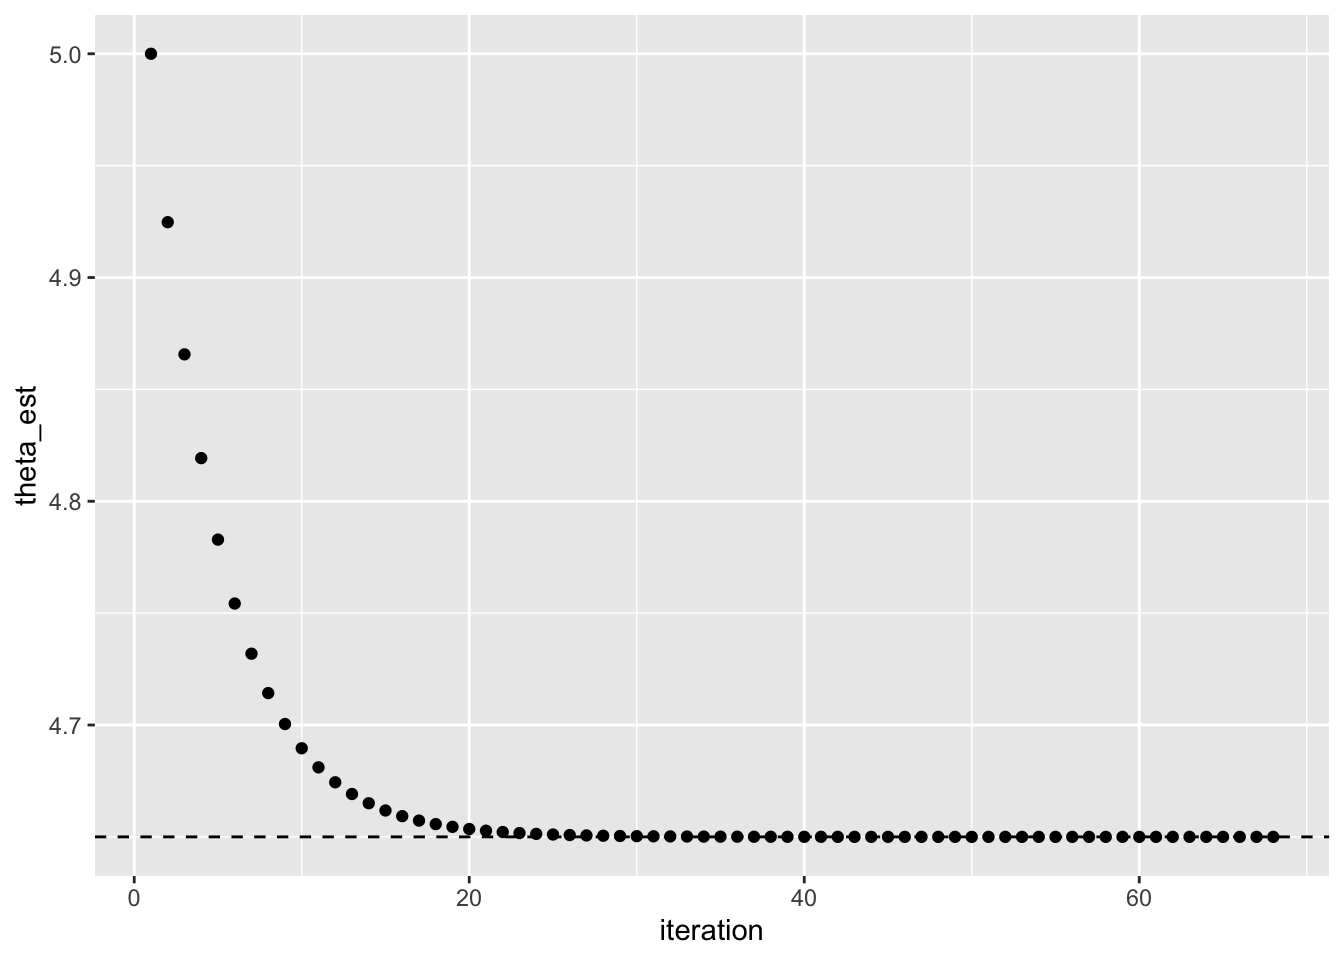
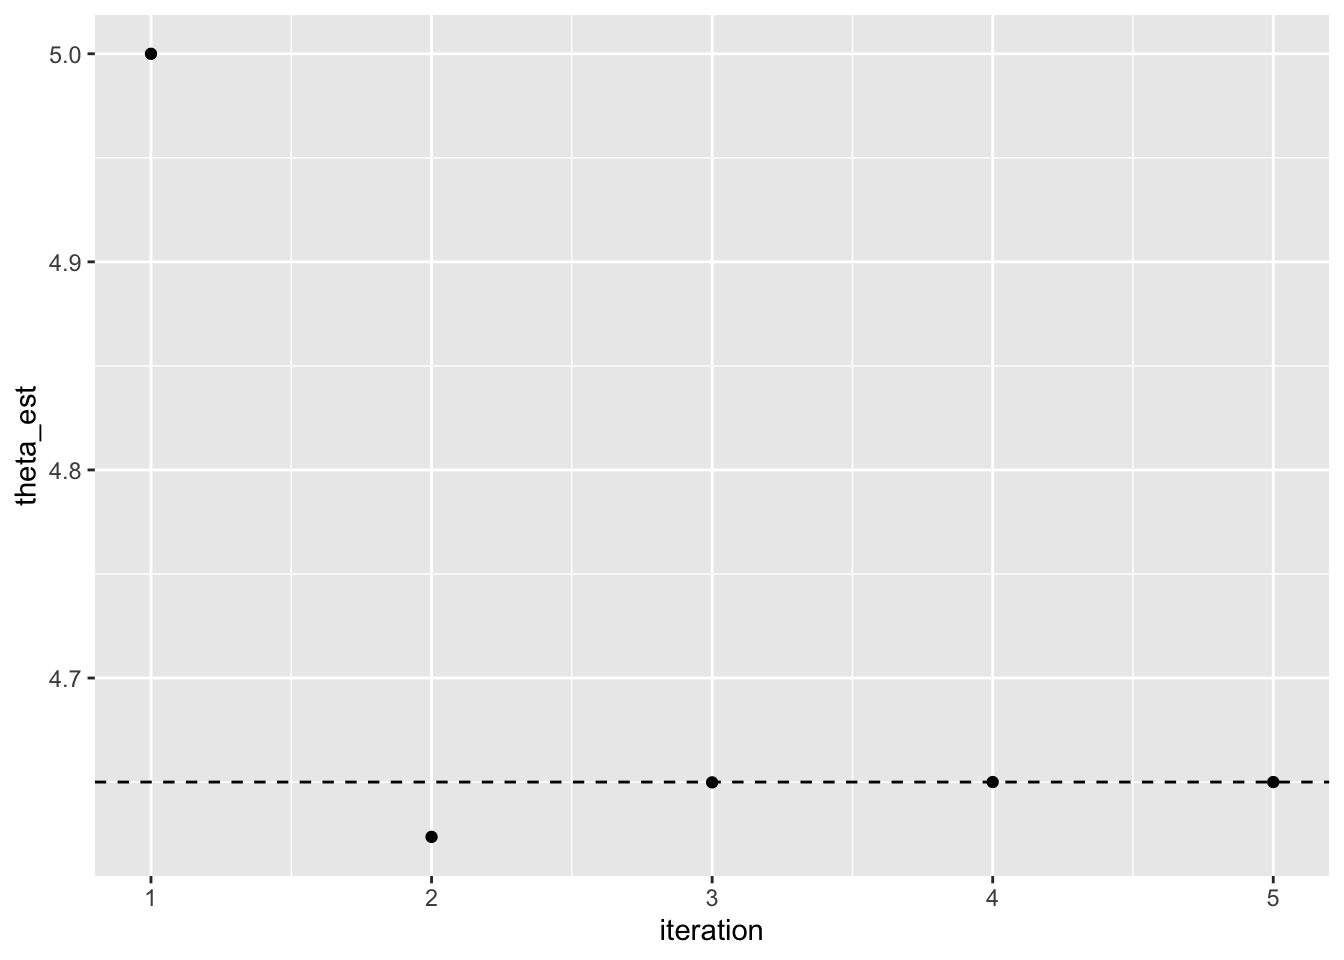
adding my newton raphson

diff --git a/docs/weeks/class/newton_raphson_solns.html b/docs/weeks/class/newton_raphson_solns.html
@@ -186,6 +186,8 @@ pre > code.sourceCode > span > a:first-child::before { text-decoration: underlin
 </header>
 
 
+<section id="poisson-example" class="level2">
+<h2 class="anchored" data-anchor-id="poisson-example">Poisson example</h2>
 <div class="cell">
 <div class="code-copy-outer-scaffold"><div class="sourceCode cell-code" id="cb1"><pre class="sourceCode r code-with-copy"><code class="sourceCode r"><span id="cb1-1"><a href="#cb1-1" aria-hidden="true" tabindex="-1"></a><span class="fu">library</span>(tidyverse)</span>
 <span id="cb1-2"><a href="#cb1-2" aria-hidden="true" tabindex="-1"></a><span class="fu">set.seed</span>(<span class="dv">311</span>)</span>
@@ -204,7 +206,7 @@ pre > code.sourceCode > span > a:first-child::before { text-decoration: underlin
 <span id="cb1-15"><a href="#cb1-15" aria-hidden="true" tabindex="-1"></a><span class="cf">while</span>(flag){</span>
 <span id="cb1-16"><a href="#cb1-16" aria-hidden="true" tabindex="-1"></a>  <span class="co"># evaluate derivative(s)</span></span>
 <span id="cb1-17"><a href="#cb1-17" aria-hidden="true" tabindex="-1"></a>  score <span class="ot">&lt;-</span> <span class="sc">-</span>n <span class="sc">+</span> <span class="fu">sum</span>(x)<span class="sc">/</span>theta_curr</span>
-<span id="cb1-18"><a href="#cb1-18" aria-hidden="true" tabindex="-1"></a>  score_prime <span class="ot">&lt;-</span> <span class="sc">-</span><span class="fu">sum</span>(x)<span class="sc">/</span>theta_curr</span>
+<span id="cb1-18"><a href="#cb1-18" aria-hidden="true" tabindex="-1"></a>  score_prime <span class="ot">&lt;-</span> <span class="sc">-</span><span class="fu">sum</span>(x)<span class="sc">/</span>theta_curr<span class="sc">^</span><span class="dv">2</span></span>
 <span id="cb1-19"><a href="#cb1-19" aria-hidden="true" tabindex="-1"></a>  <span class="co"># update parameter</span></span>
 <span id="cb1-20"><a href="#cb1-20" aria-hidden="true" tabindex="-1"></a>  theta_new <span class="ot">&lt;-</span> theta_curr <span class="sc">-</span> score<span class="sc">/</span>score_prime</span>
 <span id="cb1-21"><a href="#cb1-21" aria-hidden="true" tabindex="-1"></a>  </span>
@@ -233,8 +235,93 @@ pre > code.sourceCode > span > a:first-child::before { text-decoration: underlin
 </div>
 </div>
 </div>
+</section>
+<section id="muon-decay-example" class="level2">
+<h2 class="anchored" data-anchor-id="muon-decay-example">Muon decay example</h2>
+<div class="cell">
+<div class="code-copy-outer-scaffold"><div class="sourceCode cell-code" id="cb2"><pre class="sourceCode r code-with-copy"><code class="sourceCode r"><span id="cb2-1"><a href="#cb2-1" aria-hidden="true" tabindex="-1"></a><span class="co"># muon decay example</span></span>
+<span id="cb2-2"><a href="#cb2-2" aria-hidden="true" tabindex="-1"></a><span class="fu">set.seed</span>(<span class="dv">10</span>)</span>
+<span id="cb2-3"><a href="#cb2-3" aria-hidden="true" tabindex="-1"></a><span class="co"># simulate data via inverse CDF</span></span>
+<span id="cb2-4"><a href="#cb2-4" aria-hidden="true" tabindex="-1"></a>count <span class="ot">&lt;-</span> <span class="dv">1</span></span>
+<span id="cb2-5"><a href="#cb2-5" aria-hidden="true" tabindex="-1"></a>n <span class="ot">&lt;-</span> <span class="dv">25</span></span>
+<span id="cb2-6"><a href="#cb2-6" aria-hidden="true" tabindex="-1"></a>theta_true <span class="ot">&lt;-</span> <span class="fl">0.5</span></span>
+<span id="cb2-7"><a href="#cb2-7" aria-hidden="true" tabindex="-1"></a>x <span class="ot">&lt;-</span> <span class="fu">c</span>()</span>
+<span id="cb2-8"><a href="#cb2-8" aria-hidden="true" tabindex="-1"></a><span class="cf">while</span>(count <span class="sc">&lt;=</span> n){</span>
+<span id="cb2-9"><a href="#cb2-9" aria-hidden="true" tabindex="-1"></a>  u <span class="ot">&lt;-</span> <span class="fu">runif</span>(<span class="dv">1</span>)</span>
+<span id="cb2-10"><a href="#cb2-10" aria-hidden="true" tabindex="-1"></a>  a <span class="ot">&lt;-</span> theta_true <span class="sc">/</span> <span class="dv">4</span></span>
+<span id="cb2-11"><a href="#cb2-11" aria-hidden="true" tabindex="-1"></a>  b <span class="ot">&lt;-</span> <span class="dv">1</span><span class="sc">/</span><span class="dv">2</span></span>
+<span id="cb2-12"><a href="#cb2-12" aria-hidden="true" tabindex="-1"></a>  c <span class="ot">&lt;-</span> <span class="dv">1</span><span class="sc">/</span><span class="dv">2</span> <span class="sc">-</span> theta_true<span class="sc">/</span><span class="dv">4</span> <span class="sc">-</span> u</span>
+<span id="cb2-13"><a href="#cb2-13" aria-hidden="true" tabindex="-1"></a>  root <span class="ot">&lt;-</span> (<span class="sc">-</span>b <span class="sc">+</span> <span class="fu">c</span>(<span class="sc">-</span><span class="dv">1</span>, <span class="dv">1</span>) <span class="sc">*</span> <span class="fu">sqrt</span>(b<span class="sc">^</span><span class="dv">2</span> <span class="sc">-</span> <span class="dv">4</span> <span class="sc">*</span> a <span class="sc">*</span> c))<span class="sc">/</span>(<span class="dv">2</span><span class="sc">*</span>a)</span>
+<span id="cb2-14"><a href="#cb2-14" aria-hidden="true" tabindex="-1"></a>  x <span class="ot">&lt;-</span> <span class="fu">c</span>(x, root[<span class="fu">which</span>(root <span class="sc">&gt;</span> <span class="sc">-</span><span class="dv">1</span> <span class="sc">&amp;</span> root <span class="sc">&lt;</span> <span class="dv">1</span>)])</span>
+<span id="cb2-15"><a href="#cb2-15" aria-hidden="true" tabindex="-1"></a>  count <span class="ot">&lt;-</span> count <span class="sc">+</span> <span class="dv">1</span></span>
+<span id="cb2-16"><a href="#cb2-16" aria-hidden="true" tabindex="-1"></a>}</span>
+<span id="cb2-17"><a href="#cb2-17" aria-hidden="true" tabindex="-1"></a></span>
+<span id="cb2-18"><a href="#cb2-18" aria-hidden="true" tabindex="-1"></a><span class="co"># visualize log likelihood to see where MLE is in relation to true theta</span></span>
+<span id="cb2-19"><a href="#cb2-19" aria-hidden="true" tabindex="-1"></a>theta_grid <span class="ot">&lt;-</span> <span class="fu">seq</span>(<span class="sc">-</span><span class="fl">0.99</span>,<span class="fl">0.99</span>,<span class="at">length=</span><span class="dv">500</span>)</span>
+<span id="cb2-20"><a href="#cb2-20" aria-hidden="true" tabindex="-1"></a>loglik <span class="ot">&lt;-</span> <span class="fu">sapply</span>(theta_grid,<span class="cf">function</span>(t){</span>
+<span id="cb2-21"><a href="#cb2-21" aria-hidden="true" tabindex="-1"></a>  <span class="fu">sum</span>(<span class="fu">log</span>(<span class="dv">1</span> <span class="sc">+</span> t<span class="sc">*</span>x))</span>
+<span id="cb2-22"><a href="#cb2-22" aria-hidden="true" tabindex="-1"></a>})</span>
+<span id="cb2-23"><a href="#cb2-23" aria-hidden="true" tabindex="-1"></a>(mle <span class="ot">&lt;-</span> theta_grid[<span class="fu">which.max</span>(loglik)])</span></code></pre></div><button title="Copy to Clipboard" class="code-copy-button"><i class="bi"></i></button></div>
+<div class="cell-output cell-output-stdout">
+<pre><code>[1] 0.4543287</code></pre>
+</div>
+<div class="code-copy-outer-scaffold"><div class="sourceCode cell-code" id="cb4"><pre class="sourceCode r code-with-copy"><code class="sourceCode r"><span id="cb4-1"><a href="#cb4-1" aria-hidden="true" tabindex="-1"></a><span class="fu">data.frame</span>(<span class="at">theta =</span> theta_grid, <span class="at">log_like =</span> loglik) <span class="sc">|&gt;</span></span>
+<span id="cb4-2"><a href="#cb4-2" aria-hidden="true" tabindex="-1"></a>  <span class="fu">ggplot</span>(<span class="fu">aes</span>(<span class="at">x =</span> theta, <span class="at">y =</span> log_like)) <span class="sc">+</span></span>
+<span id="cb4-3"><a href="#cb4-3" aria-hidden="true" tabindex="-1"></a>  <span class="fu">geom_line</span>() <span class="sc">+</span></span>
+<span id="cb4-4"><a href="#cb4-4" aria-hidden="true" tabindex="-1"></a>  <span class="fu">geom_vline</span>(<span class="at">xintercept =</span> mle, <span class="at">linetype =</span> <span class="st">"dashed"</span>, <span class="at">col =</span> <span class="st">"orange"</span>)</span></code></pre></div><button title="Copy to Clipboard" class="code-copy-button"><i class="bi"></i></button></div>
+<div class="cell-output-display">
+<div>
+<figure class="figure">
+<p><img src="newton_raphson_solns_files/figure-html/unnamed-chunk-2-1.png" class="img-fluid figure-img" width="672"></p>
+</figure>
+</div>
+</div>
+<div class="code-copy-outer-scaffold"><div class="sourceCode cell-code" id="cb5"><pre class="sourceCode r code-with-copy"><code class="sourceCode r"><span id="cb5-1"><a href="#cb5-1" aria-hidden="true" tabindex="-1"></a><span class="co"># initial guess: MoM</span></span>
+<span id="cb5-2"><a href="#cb5-2" aria-hidden="true" tabindex="-1"></a>theta_mom <span class="ot">&lt;-</span> <span class="dv">3</span> <span class="sc">*</span> <span class="fu">mean</span>(x)</span>
+<span id="cb5-3"><a href="#cb5-3" aria-hidden="true" tabindex="-1"></a>theta_curr <span class="ot">&lt;-</span> theta_mom</span>
+<span id="cb5-4"><a href="#cb5-4" aria-hidden="true" tabindex="-1"></a>theta_vec <span class="ot">&lt;-</span> <span class="fu">c</span>(theta_curr)</span>
+<span id="cb5-5"><a href="#cb5-5" aria-hidden="true" tabindex="-1"></a></span>
+<span id="cb5-6"><a href="#cb5-6" aria-hidden="true" tabindex="-1"></a>flag <span class="ot">&lt;-</span> <span class="cn">TRUE</span></span>
+<span id="cb5-7"><a href="#cb5-7" aria-hidden="true" tabindex="-1"></a>eps <span class="ot">&lt;-</span> <span class="fl">0.0000000001</span></span>
+<span id="cb5-8"><a href="#cb5-8" aria-hidden="true" tabindex="-1"></a></span>
+<span id="cb5-9"><a href="#cb5-9" aria-hidden="true" tabindex="-1"></a><span class="cf">while</span>(flag){</span>
+<span id="cb5-10"><a href="#cb5-10" aria-hidden="true" tabindex="-1"></a>  <span class="co"># evaluate derivative(s)</span></span>
+<span id="cb5-11"><a href="#cb5-11" aria-hidden="true" tabindex="-1"></a>  score <span class="ot">&lt;-</span> <span class="fu">sum</span>(x <span class="sc">/</span> (<span class="dv">1</span> <span class="sc">+</span> theta_curr <span class="sc">*</span> x))</span>
+<span id="cb5-12"><a href="#cb5-12" aria-hidden="true" tabindex="-1"></a>  score_prime <span class="ot">&lt;-</span> <span class="sc">-</span><span class="fu">sum</span>(x<span class="sc">^</span><span class="dv">2</span> <span class="sc">/</span> (<span class="dv">1</span> <span class="sc">+</span> theta_curr <span class="sc">*</span> x)<span class="sc">^</span><span class="dv">2</span>)</span>
+<span id="cb5-13"><a href="#cb5-13" aria-hidden="true" tabindex="-1"></a>  <span class="co"># update parameter</span></span>
+<span id="cb5-14"><a href="#cb5-14" aria-hidden="true" tabindex="-1"></a>  theta_new <span class="ot">&lt;-</span> theta_curr <span class="sc">-</span> score<span class="sc">/</span>score_prime</span>
+<span id="cb5-15"><a href="#cb5-15" aria-hidden="true" tabindex="-1"></a>  <span class="co"># enforce parameter bounds??</span></span>
+<span id="cb5-16"><a href="#cb5-16" aria-hidden="true" tabindex="-1"></a>  theta_new <span class="ot">&lt;-</span> <span class="fu">max</span>(<span class="fu">min</span>(theta_new, <span class="fl">0.999</span>), <span class="sc">-</span><span class="fl">0.999</span>)</span>
+<span id="cb5-17"><a href="#cb5-17" aria-hidden="true" tabindex="-1"></a>  </span>
+<span id="cb5-18"><a href="#cb5-18" aria-hidden="true" tabindex="-1"></a>  <span class="co"># store parameter</span></span>
+<span id="cb5-19"><a href="#cb5-19" aria-hidden="true" tabindex="-1"></a>  theta_vec <span class="ot">&lt;-</span> <span class="fu">c</span>(theta_vec, theta_new)</span>
+<span id="cb5-20"><a href="#cb5-20" aria-hidden="true" tabindex="-1"></a>  </span>
+<span id="cb5-21"><a href="#cb5-21" aria-hidden="true" tabindex="-1"></a>  <span class="co"># set flag to FALSE if we have converged</span></span>
+<span id="cb5-22"><a href="#cb5-22" aria-hidden="true" tabindex="-1"></a>  <span class="cf">if</span>(<span class="fu">abs</span>(theta_new <span class="sc">-</span> theta_curr) <span class="sc">&lt;</span> eps){</span>
+<span id="cb5-23"><a href="#cb5-23" aria-hidden="true" tabindex="-1"></a>    flag <span class="ot">&lt;-</span> <span class="cn">FALSE</span></span>
+<span id="cb5-24"><a href="#cb5-24" aria-hidden="true" tabindex="-1"></a>  }</span>
+<span id="cb5-25"><a href="#cb5-25" aria-hidden="true" tabindex="-1"></a>  <span class="co"># set "new" parameter to be the previous parameter</span></span>
+<span id="cb5-26"><a href="#cb5-26" aria-hidden="true" tabindex="-1"></a>  theta_curr <span class="ot">&lt;-</span> theta_new</span>
+<span id="cb5-27"><a href="#cb5-27" aria-hidden="true" tabindex="-1"></a>}</span>
+<span id="cb5-28"><a href="#cb5-28" aria-hidden="true" tabindex="-1"></a></span>
+<span id="cb5-29"><a href="#cb5-29" aria-hidden="true" tabindex="-1"></a></span>
+<span id="cb5-30"><a href="#cb5-30" aria-hidden="true" tabindex="-1"></a><span class="fu">data.frame</span>(<span class="at">theta_est =</span> theta_vec) <span class="sc">|&gt;</span></span>
+<span id="cb5-31"><a href="#cb5-31" aria-hidden="true" tabindex="-1"></a>  <span class="fu">mutate</span>(<span class="at">iteration =</span> <span class="fu">row_number</span>()) <span class="sc">|&gt;</span></span>
+<span id="cb5-32"><a href="#cb5-32" aria-hidden="true" tabindex="-1"></a>  <span class="fu">ggplot</span>(<span class="fu">aes</span>(<span class="at">x =</span> iteration, <span class="at">y =</span> theta_est)) <span class="sc">+</span></span>
+<span id="cb5-33"><a href="#cb5-33" aria-hidden="true" tabindex="-1"></a>  <span class="fu">geom_point</span>() <span class="sc">+</span></span>
+<span id="cb5-34"><a href="#cb5-34" aria-hidden="true" tabindex="-1"></a>  <span class="fu">geom_hline</span>(<span class="at">yintercept =</span> mle, <span class="at">linetype =</span> <span class="st">"dashed"</span>, <span class="at">col =</span> <span class="st">"orange"</span>) <span class="sc">+</span></span>
+<span id="cb5-35"><a href="#cb5-35" aria-hidden="true" tabindex="-1"></a>  <span class="fu">labs</span>(<span class="at">caption =</span> <span class="st">"Dashed line is observed MLE"</span>)</span></code></pre></div><button title="Copy to Clipboard" class="code-copy-button"><i class="bi"></i></button></div>
+<div class="cell-output-display">
+<div>
+<figure class="figure">
+<p><img src="newton_raphson_solns_files/figure-html/unnamed-chunk-2-2.png" class="img-fluid figure-img" width="672"></p>
+</figure>
+</div>
+</div>
+</div>
 
 
+</section>
 
 </main> <!-- /main -->
 <script id="quarto-html-after-body" type="application/javascript">

diff --git a/docs/weeks/week-05.html b/docs/weeks/week-05.html
@@ -254,7 +254,7 @@ ul.task-list li input[type="checkbox"] {
 <p>None!</p>
 <p><strong>Class activity</strong></p>
 <ul>
[2 lines of base64/hex data omitted]
       const downloadURL = window.URL.createObjectURL(blob);
       const a = document.createElement('a');
       document.body.appendChild(a);
@@ -262,7 +262,10 @@ ul.task-list li input[type="checkbox"] {
       a.download = 'newton_raphson.Rmd'; a.click();
       window.URL.revokeObjectURL(downloadURL);
       document.body.removeChild(a);
-        });"><button class="btn btn-default downloadthis  " id="mtcars-btn"><i class="bi bi-download"></i> .Rmd </button></a></li>
+        });"><button class="btn btn-default downloadthis  " id="mtcars-btn"><i class="bi bi-download"></i> .Rmd </button></a>
+<ul>
+<li><a href="../weeks/class/newton_raphson_solns.html">My code</a></li>
+</ul></li>
 </ul>
 <!--
 -   Example [implementation](class/EM_solns.qmd)
